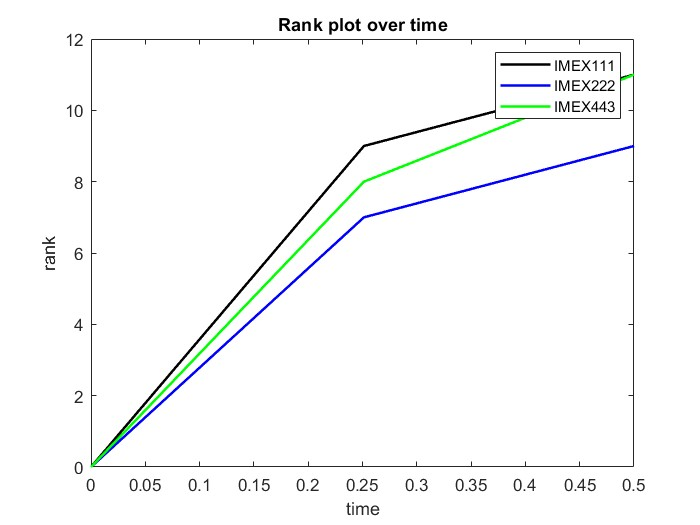
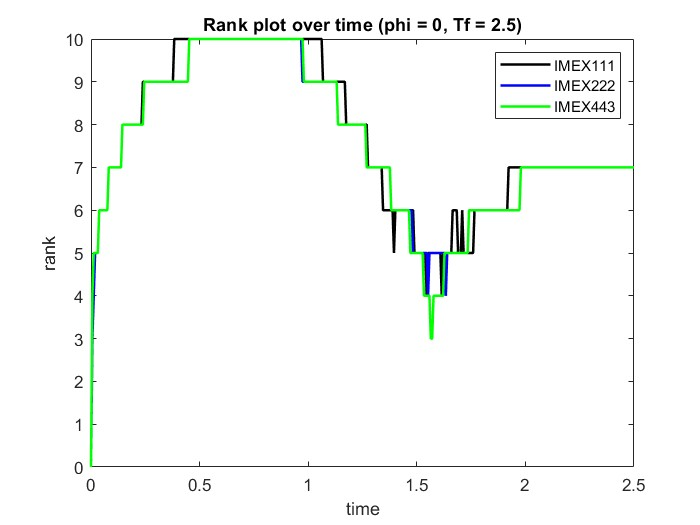
cylindrical coords

diff --git a/RAIL/IMEX/main.m b/RAIL/IMEX/main.m
@@ -11,7 +11,7 @@ A = cell(2, 3);
     A{2, 1} = @(x) x;
     A{2, 2} = @(t) 1;
     A{2, 3} = @(y) y.^0;
-tf = 0.5;
+tf = 2.5;
 interval = [-2*pi, 2*pi, -2*pi, 2*pi];
 Nx = 100; Ny = 100;
 tolerance = 1e-8;
@@ -20,11 +20,16 @@ phi = cell(1, 3);
     phi{1, 1} = @(x, t) [exp(-(x.^2)), x.*exp(-(x.^2)), (x.^2).*exp(-(x.^2)), exp(-(x.^2))];
     phi{1, 2} = @(t) diag([6*d*exp(-2*d*t), -4*exp(-2*d*t), -4*d*exp(-2*d*t), -36*d*exp(-2*d*t)]);
     phi{1, 3} = @(y, t) [exp(-3*(y.^2)), y.*exp(-3*(y.^2)), exp(-3*(y.^2)), (y.^2).*exp(-3*(y.^2))];
+% turn source term off
+% phi = cell(1, 3);
+%     phi{1, 1} = @(x, t) 0;
+%     phi{1, 2} = @(t) 0;
+%     phi{1, 3} = @(y, t) 0;
 u_exact = @(x, y, t) exp(-((x.^2) + (3*y.^2) + (2*d*t)));
 u0 = @(x, y) u_exact(x, y, 0);
 [X, Y, dx, dy] = GetXY(Nx, Ny, interval);
 
-lambdavals = (0.1:0.02:2)';
+lambdavals = 0.05;%(0.1:0.02:2)';
 errors = zeros(numel(lambdavals), 3); % L1 norms for IMEX(1, 1, 1), (2, 2, 2), (4, 4, 3)
 
 for k = 1:numel(lambdavals)
@@ -76,9 +81,9 @@ legend('IMEX111', 'IMEX222', 'IMEX443');
 %% TEST 2: Swirling Deformation with Diffusion
 clc;  close all;
 
-tf = 0.5;
+tf = 2.5;
 interval = [-pi, pi, -pi, pi];
-Nx = 300; Ny = 300;
+Nx = 100; Ny = 100;
 tolerance = 1e-8;
 r0 = 30;
 
@@ -103,7 +108,7 @@ phi = cell(1, 3);
 
 [X, Y, dx, dy] = GetXY(Nx, Ny, interval);
 
-lambdavals = (0.1:0.02:2)';
+lambdavals = (0.15:0.02:2)';
 errors = zeros(numel(lambdavals), 3); % L1 norms for IMEX(1, 1, 1), (2, 2, 2), (4, 4, 3)
 
 for k = 1:1%numel(lambdavals)
